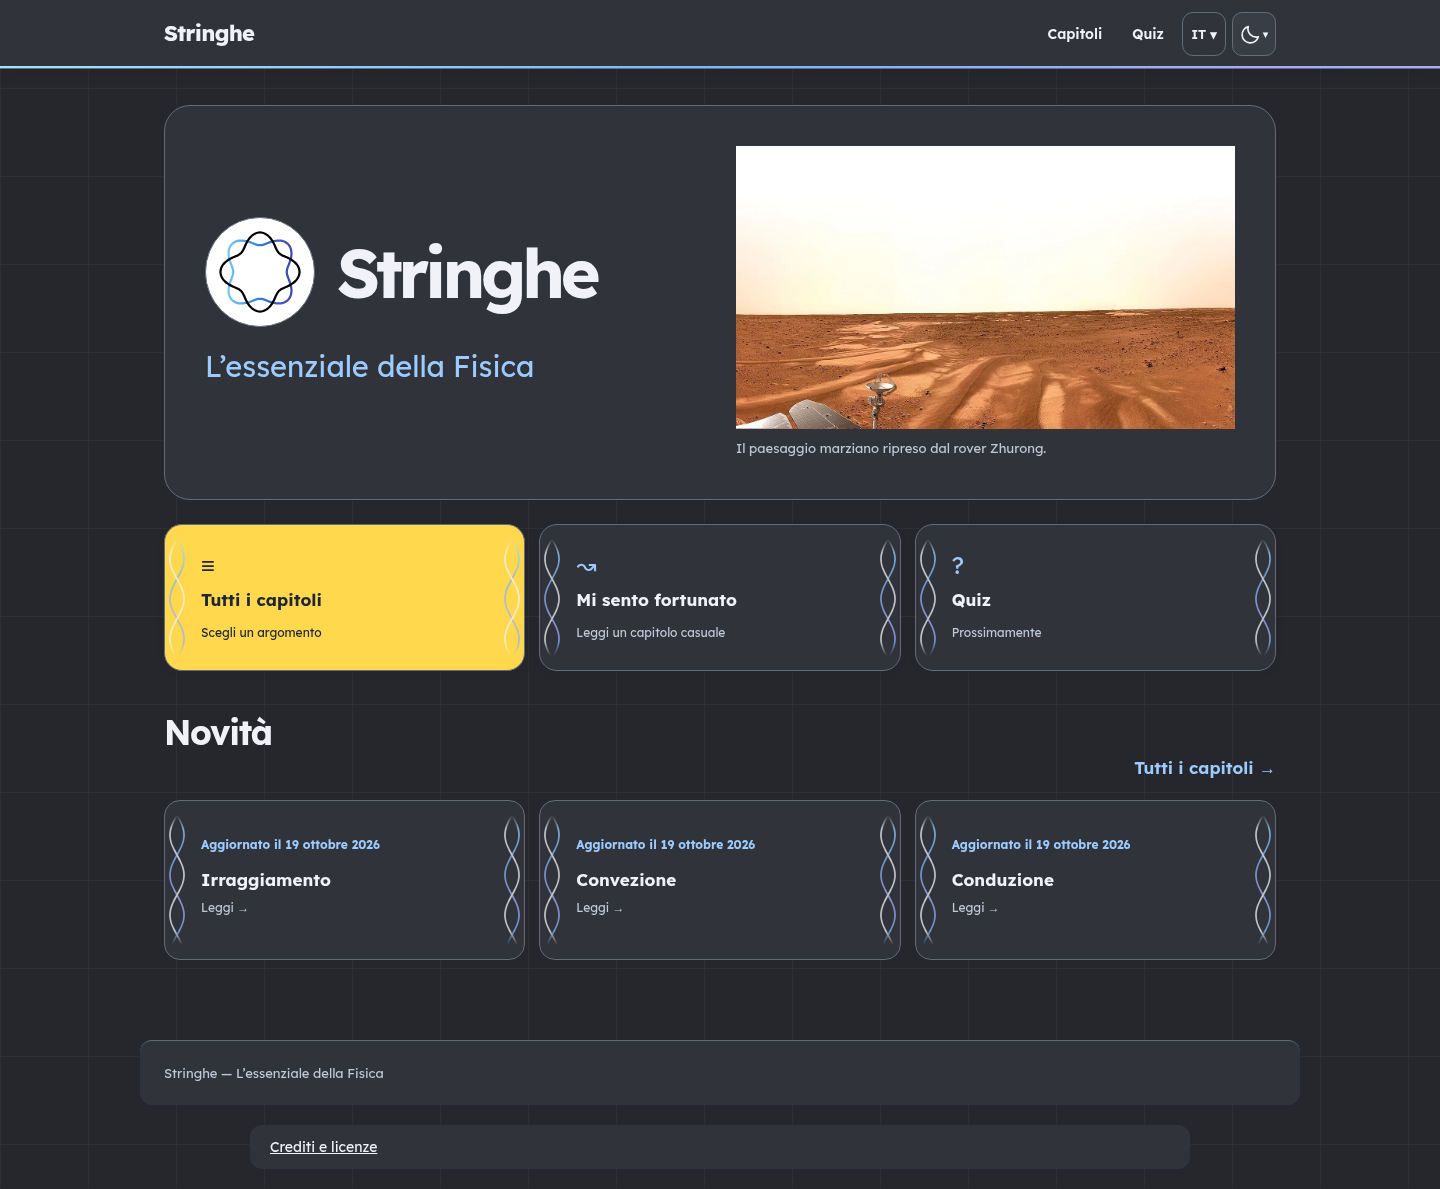
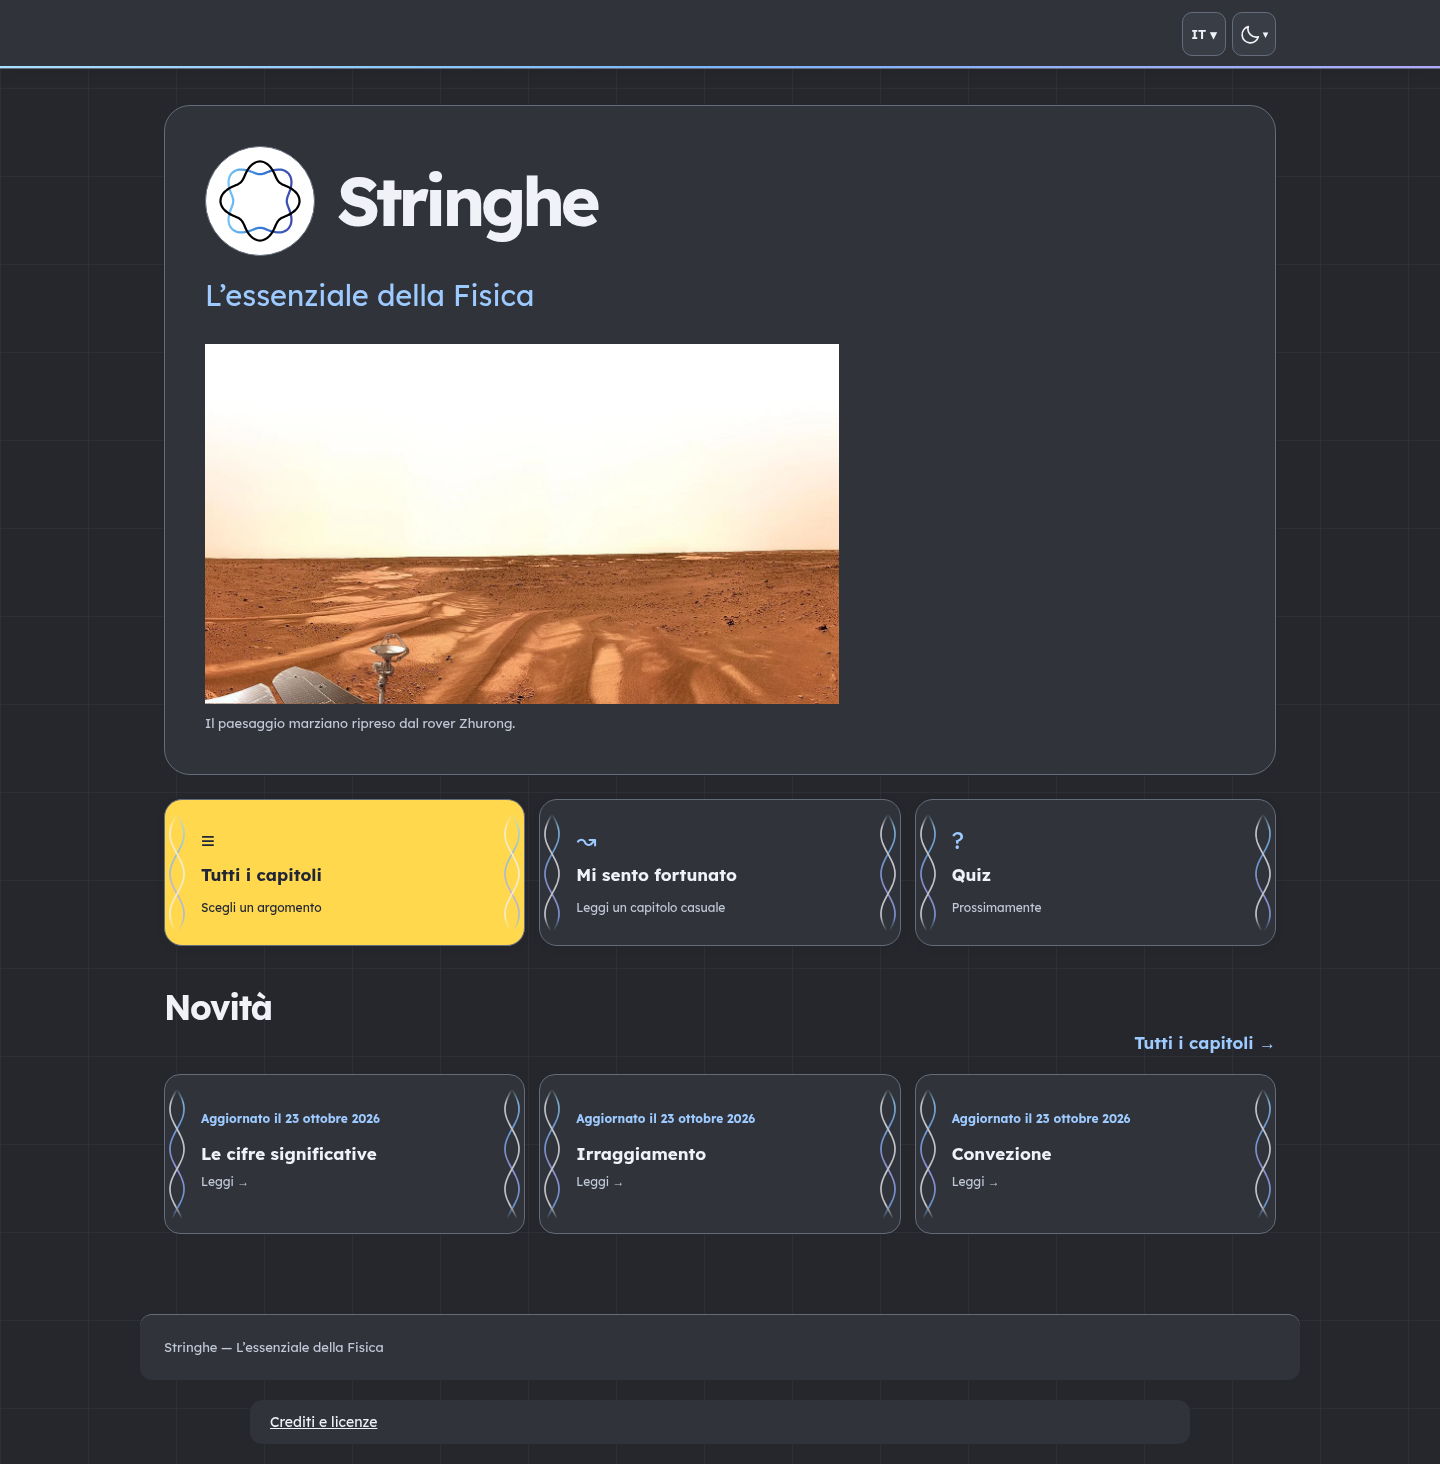
Registra verifiche e anteprime aggiornate della home

diff --git a/lavorazione/sito/stato.md b/lavorazione/sito/stato.md
@@ -2,7 +2,7 @@
 
 ## Revisione corrente — Novità e copertina allineata a sinistra
 
-23 ottobre 2026. Master v69.11. Ramo `fix/home-novita-allineamento`, derivato da main `cb81358eba8babeef0e7c170a126954b767ae242`. Richiesta: far apparire il capitolo 5 appena pubblicato nelle Novità e allineare foto/didascalia con titolo e sottotitolo. Causa: date editoriali uguali, spareggio per posizione nel catalogo. Correzione: timestamp ISO 8601 con fuso, compatibile con date storiche; capitolo 5 riallineato all’orario effettivo Pages `2026-10-23T17:11:05Z`. Nessuna modifica al contenuto didattico. Copertina sotto titolo/sottotitolo con margine sinistro comune su ogni schermo, venti foto intere e proporzionali. Tema canonico sincronizzato, modello v24. Verifiche e anteprima in preparazione; nessuna approvazione o pubblicazione ufficiale di questa revisione.
+23 ottobre 2026. Master v69.11. Ramo `fix/home-novita-allineamento`, derivato da main `cb81358eba8babeef0e7c170a126954b767ae242`. Richiesta: far apparire il capitolo 5 appena pubblicato nelle Novità e allineare foto/didascalia con titolo e sottotitolo. Causa: date editoriali uguali, spareggio per posizione nel catalogo. Correzione: timestamp ISO 8601 con fuso, compatibile con date storiche; capitolo 5 riallineato all’orario effettivo Pages `2026-10-23T17:11:05Z`. Nessuna modifica al contenuto didattico. Copertina sotto titolo/sottotitolo con margine sinistro comune su ogni schermo, venti foto intere e proporzionali. Tema canonico sincronizzato, modello v24. Verifiche concluse: 19 test automatici, controllo crediti, sincronizzazione del tema e build superati. Chromium: 210 combinazioni pagina/viewport/tema e 20 copertine, nessun errore JavaScript; foto e didascalia allineate con il blocco titolo su 320, 390, 768, 1024 e 1440 px. GitHub CI 39994637885 riuscita. PR #70 in bozza: https://github.com/rickymusu-bit/fisica/pull/70. Anteprima corrente generata dal commit 87e50fcc25f8ccfd2859ca7f30568b5a2f2415e1: https://raw.githack.com/rickymusu-bit/fisica/19f1f69bd5031893cdca5143fd03c43ee13e6378/index.html. Report in verifica-stringhe.json e schermate home aggiornate. Nessuna approvazione o pubblicazione ufficiale di questa revisione.
 
 
 ## Revisione corrente — profilo della parete caricato nel repository
